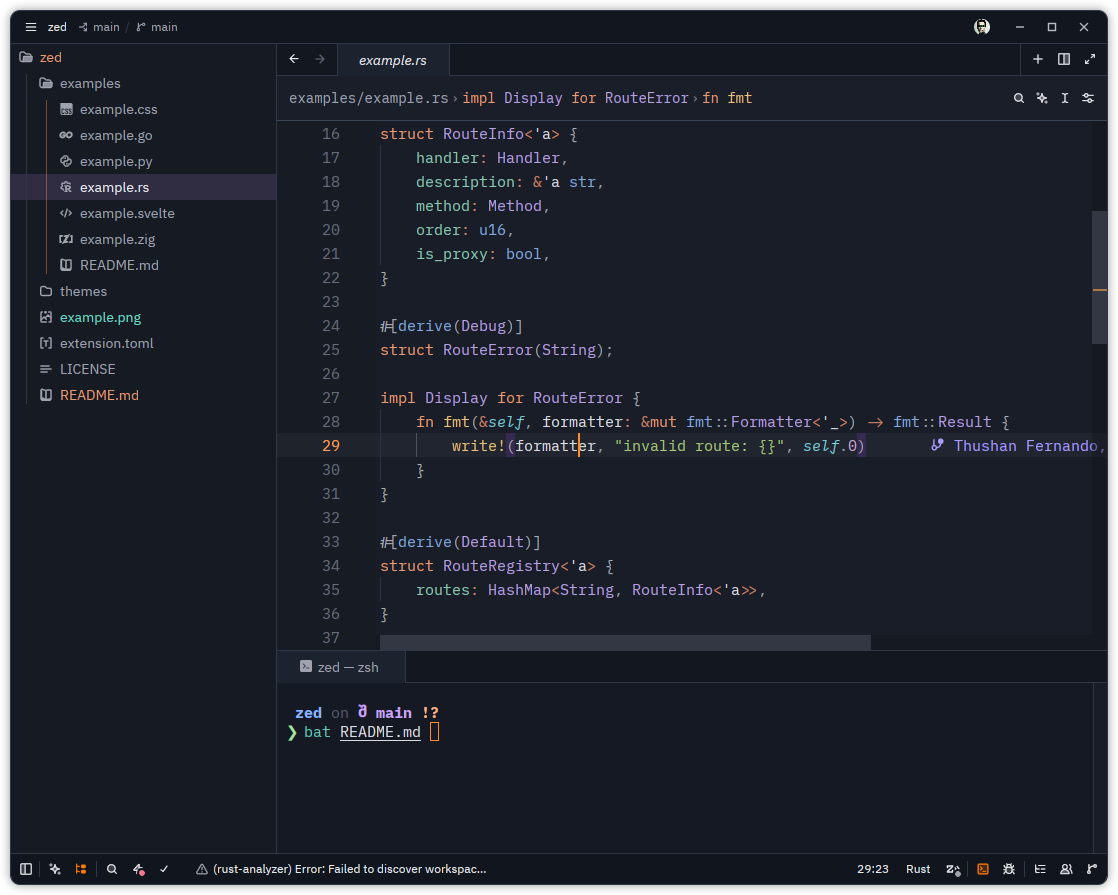
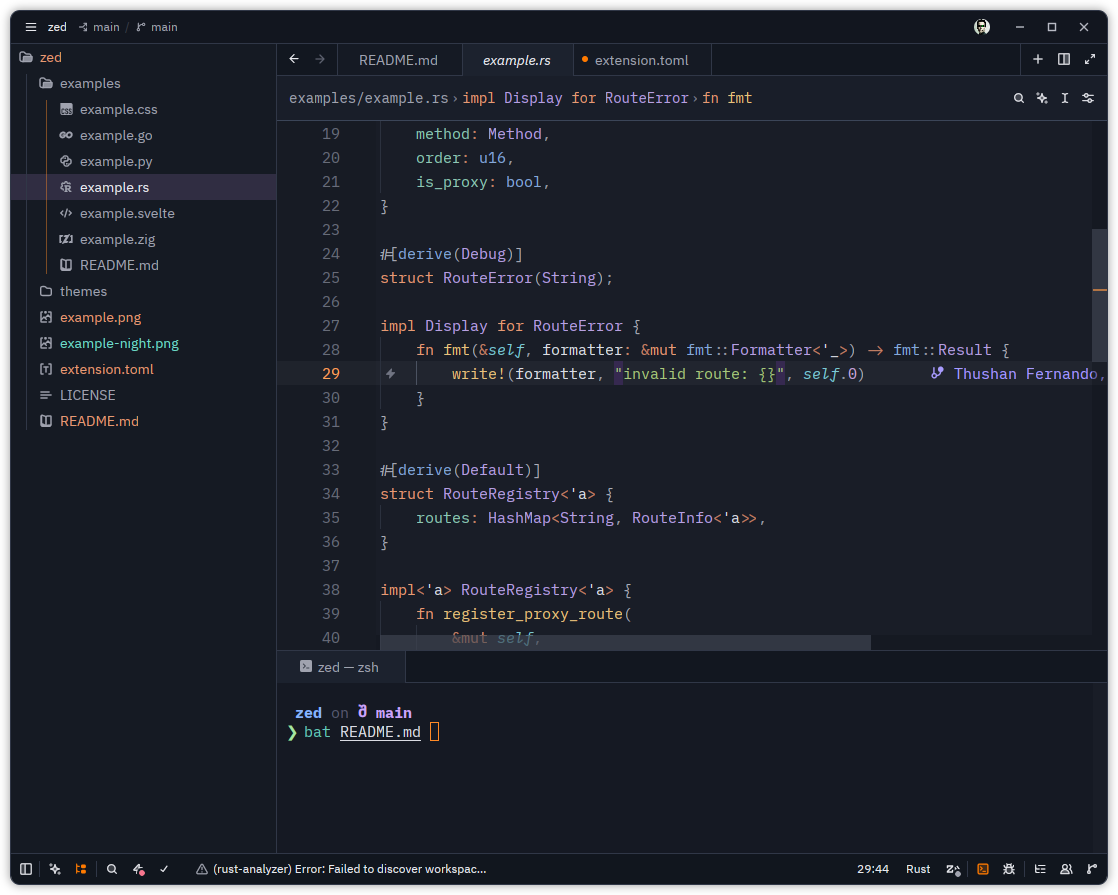
Initial v1.0.0 release

diff --git a/README.md b/README.md
@@ -1,15 +1,22 @@
 # TensorFoundry Theme for Zed
 
-Two low-glare dark themes built for long sessions in Zed. Both use the [TensorFoundry](https://tensorfoundry.io) palette—forge orange, violet, and cyan—with softened syntax colours to keep code structure clear without visual noise.
+Two low-glare dark themes built for long sessions in Zed. Both use the [TensorFoundry](https://tensorfoundry.io) palette-forge orange, violet, and cyan-with softened syntax colours to keep code structure clear without visual noise.
 
 - **TensorFoundry Dark** uses soothing graphite and midnight-slate surfaces with clear separation between editor, navigation, tabs, and panels.
 - **TensorFoundry Dark Night** is the deeper near-black variant for distraction-free work.
 
 ## TensorFoundry Dark in action
 
+*A focused Rust workspace with distinct navigation and editor surfaces, semantically grouped syntax colours, a clearly highlighted active file, and an integrated terminal that belongs to the same visual system. Click the preview for the full-size image.*
+
+### TensorFoundry Dark
+
 [![TensorFoundry Dark in Zed, showing Rust syntax highlighting, the project panel, active editor, and integrated terminal](example.png)](example.png)
 
-*A focused Rust workspace with distinct navigation and editor surfaces, semantically grouped syntax colours, a clearly highlighted active file, and an integrated terminal that belongs to the same visual system. Click the preview for the full-size image.*
+## TensorFoundry Dark Night
+
+[![TensorFoundry Dark Night in Zed, showing Rust syntax highlighting, the project panel, active editor, and integrated terminal](example-night.png)](example-night.png)
+
 
 ## Install for development
 
